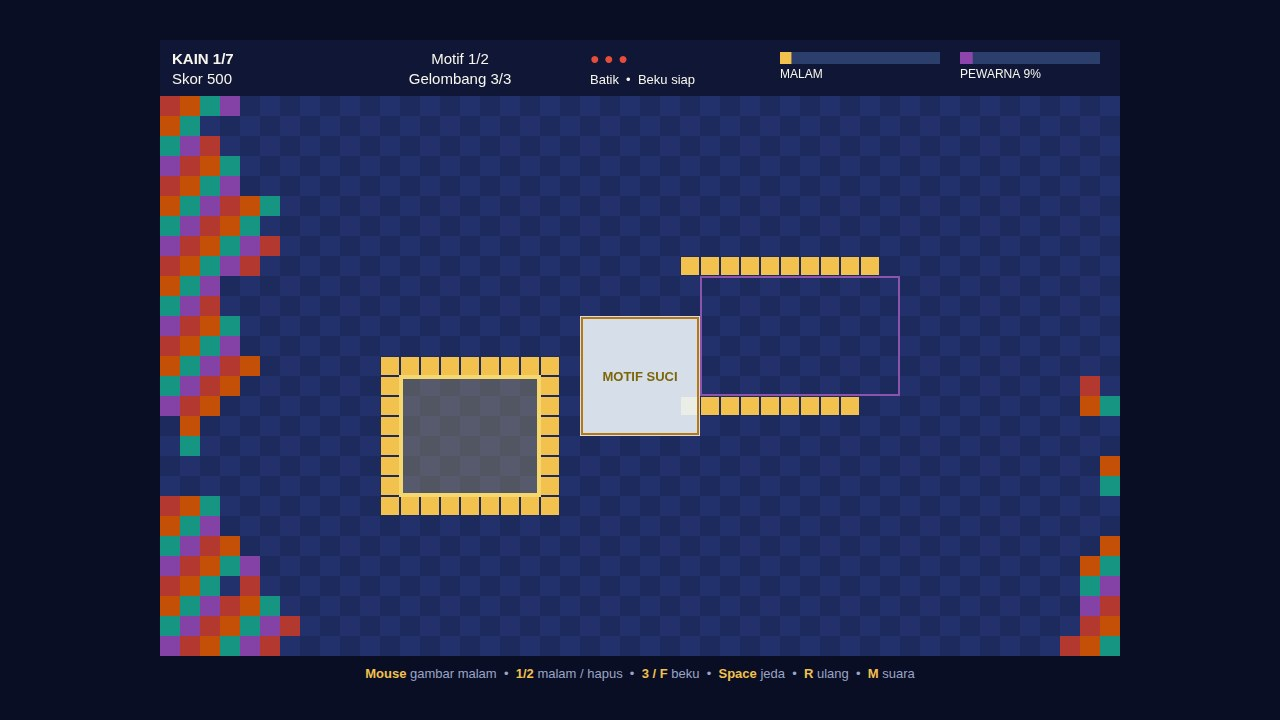
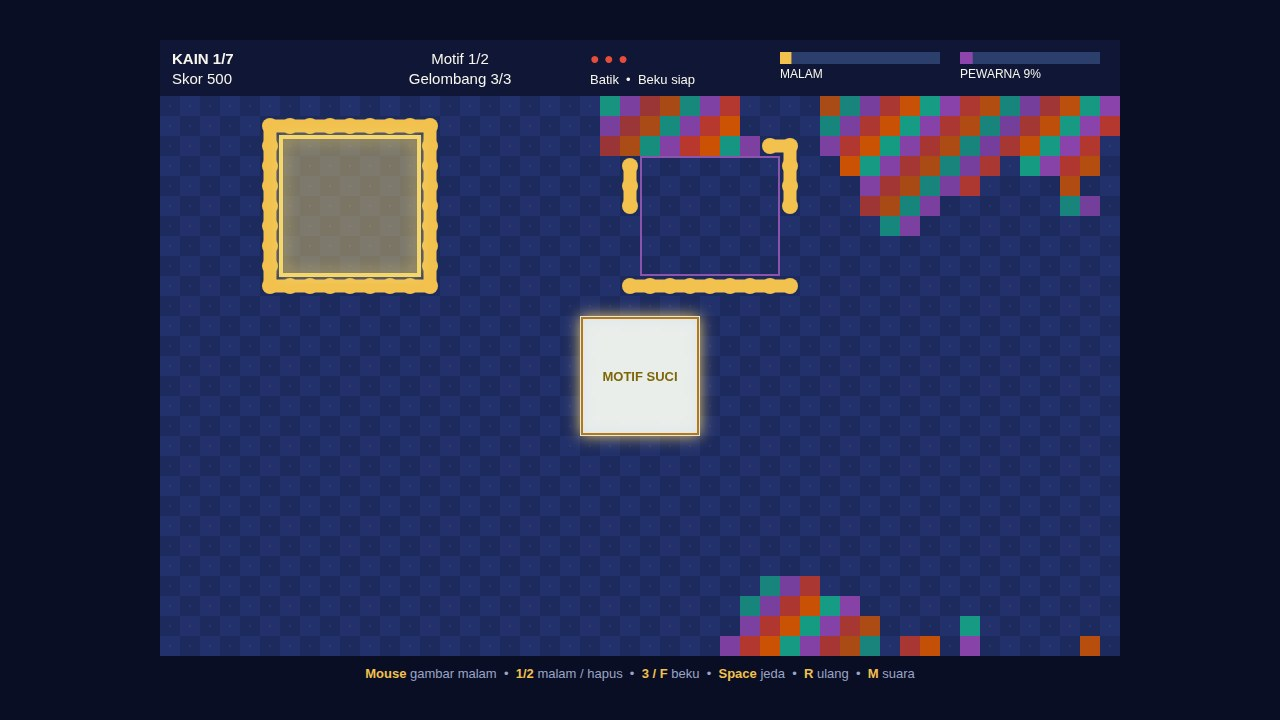
Polish: smooth wax strokes, motif glow, batik texture, living title, gamelan ambient, win screenshot; fix upgrades wiped by cloth reset and unused waxMul

diff --git a/game/src/shots.js b/game/src/shots.js
@@ -4,8 +4,10 @@
 // The frame is what a short game really looks like, and the same seed always
 // gives the same frame — so main.ts writes identical screenshots on every run.
 
-import { CELL, GRID } from './config.js';
-import { SCREEN_OVER, SCREEN_PLAY, SCREEN_TITLE } from './game.js';
+import { CELL, GRID, SCORE } from './config.js';
+import { EVENT_CLEAR } from './cloth.js';
+import { SCREEN_OVER, SCREEN_PLAY, SCREEN_TITLE, SCREEN_WIN } from './game.js';
+import { SACRED } from './motifs.js';
 
 const STEP = 1 / 60;
 const TITLE_SECONDS = 2;
@@ -13,18 +15,19 @@ const PLAY_SECONDS = 18;
 const BOSS_SECONDS = 22;
 const END_SECONDS = 240;
 
-// Paint a few wax cells on the ring just outside a motif's box.
-function ringMotif(game, motif, budget) {
-  const cloth = game.cloth;
+// Paint a few wax cells on the ring just outside a box (a motif or the
+// sacred centre). Wax may cover dye at double cost, so a ring can always
+// be closed.
+function ringBox(cloth, box, budget) {
   let painted = 0;
   const ring = [];
-  for (let x = motif.x - 1; x <= motif.x + motif.w; x += 1) {
-    ring.push({ x, y: motif.y - 1 });
-    ring.push({ x, y: motif.y + motif.h });
+  for (let x = box.x - 1; x <= box.x + box.w; x += 1) {
+    ring.push({ x, y: box.y - 1 });
+    ring.push({ x, y: box.y + box.h });
   }
-  for (let y = motif.y; y < motif.y + motif.h; y += 1) {
-    ring.push({ x: motif.x - 1, y });
-    ring.push({ x: motif.x + motif.w, y });
+  for (let y = box.y; y < box.y + box.h; y += 1) {
+    ring.push({ x: box.x - 1, y });
+    ring.push({ x: box.x + box.w, y });
   }
   for (let i = 0; i < ring.length && painted < budget; i += 1) {
     const cell = ring[i];
@@ -36,6 +39,48 @@ function ringMotif(game, motif, budget) {
   return painted;
 }
 
+function ringMotif(game, motif, budget) {
+  return ringBox(game.cloth, motif, budget);
+}
+
+// True when every in-bounds cell of the ring around a box is wax.
+function ringComplete(cloth, box) {
+  for (let x = box.x - 1; x <= box.x + box.w; x += 1) {
+    for (const y of [box.y - 1, box.y + box.h]) {
+      if (x < 0 || y < 0 || x >= GRID.cols || y >= GRID.rows) continue;
+      if (cloth.grid[y * GRID.cols + x] !== CELL.WAX) return false;
+    }
+  }
+  for (let y = box.y; y < box.y + box.h; y += 1) {
+    for (const x of [box.x - 1, box.x + box.w]) {
+      if (x < 0 || y < 0 || x >= GRID.cols || y >= GRID.rows) continue;
+      if (cloth.grid[y * GRID.cols + x] !== CELL.WAX) return false;
+    }
+  }
+  return true;
+}
+
+// True when the ring around a box can still be closed: every ring cell is
+// wax or plain cloth, never dye. Once dye stains the line, a player would
+// draw further out instead of getting stuck.
+function ringPossible(cloth, box) {
+  for (let x = box.x - 1; x <= box.x + box.w; x += 1) {
+    for (const y of [box.y - 1, box.y + box.h]) {
+      if (x < 0 || y < 0 || x >= GRID.cols || y >= GRID.rows) continue;
+      const cell = cloth.grid[y * GRID.cols + x];
+      if (cell !== CELL.WAX && cell !== CELL.CLOTH) return false;
+    }
+  }
+  for (let y = box.y; y < box.y + box.h; y += 1) {
+    for (const x of [box.x - 1, box.x + box.w]) {
+      if (x < 0 || y < 0 || x >= GRID.cols || y >= GRID.rows) continue;
+      const cell = cloth.grid[y * GRID.cols + x];
+      if (cell !== CELL.WAX && cell !== CELL.CLOTH) return false;
+    }
+  }
+  return true;
+}
+
 // The autopilot: each tick, ring the first unsealed motif with wax.
 function autopilot(game) {
   const motif = game.cloth.motifs.find((m) => !m.sealed);
@@ -43,11 +88,24 @@ function autopilot(game) {
   ringMotif(game, motif, 2);
 }
 
+// The win pilot: ring the sacred centre first, then the motifs, and freeze
+// when the flood gets bad — the way a careful player plays.
+function winPilot(game) {
+  const cloth = game.cloth;
+  if (!ringComplete(cloth, SACRED) && ringPossible(cloth, SACRED)) {
+    ringBox(cloth, SACRED, 4);
+  } else {
+    const motif = cloth.motifs.find((m) => !m.sealed);
+    if (motif) ringMotif(game, motif, 4);
+  }
+  if (cloth.dyeFraction() > 0.35) cloth.freeze();
+}
+
 // Step the cloth forward in big chunks (dt up to 0.25s) to stage a scene fast.
-function fastForward(game, seconds) {
+function fastForward(game, seconds, pilot) {
   const steps = Math.ceil(seconds / 0.25);
   for (let i = 0; i < steps; i += 1) {
-    autopilot(game);
+    (pilot || autopilot)(game);
     game.cloth.step(0.25);
     if (game.cloth.over) break;
   }
@@ -75,6 +133,36 @@ export function stageShot(name, game, seed) {
     game.banner = '';
     game.bannerTime = 0;
     return { screen: SCREEN_PLAY };
+  }
+  if (name === 'win') {
+    // Play a whole run to victory with the win pilot, taking the regen
+    // upgrade between cloths, so the frame shows the win screen with a
+    // real final score behind it.
+    game.startRun('batik');
+    game.seed = seed;
+    game.cloth.reset(0, game.difficulty, seed, 3, 0);
+    for (let cloth = 0; cloth < 7; cloth += 1) {
+      let cleared = false;
+      for (let i = 0; i < 480 && !game.cloth.over; i += 1) {
+        winPilot(game);
+        game.cloth.step(0.25);
+        if (game.cloth.events.some((e) => e.type === EVENT_CLEAR)) {
+          cleared = true;
+          break;
+        }
+      }
+      if (!cleared) break;
+      game.cloth.score += SCORE.clothClear;
+      if (cloth === 6) {
+        game.finishWin();
+      } else {
+        game.cloth.waxRegen *= 1.4;
+        game.nextCloth();
+      }
+    }
+    game.banner = '';
+    game.bannerTime = 0;
+    return { screen: SCREEN_WIN };
   }
   if (name === 'end') {
     game.startRun('mahir');

diff --git a/game/src/render.js b/game/src/render.js
@@ -20,32 +20,63 @@ function dyeColor(x, y) {
 
 // Draw the cloth grid: wax, dye, motifs, sacred centre, boss.
 export function drawCloth(ctx, cloth, time) {
+  const waxCells = [];
   for (let y = 0; y < GRID.rows; y += 1) {
     for (let x = 0; x < GRID.cols; x += 1) {
       const px = x * CELL_PX;
       const py = ORIGIN_Y + y * CELL_PX;
       const kind = cloth.grid[y * GRID.cols + x];
       if (kind === CELL.WAX) {
-        ctx.fillStyle = PALETTE.wax;
-        ctx.fillRect(px + 1, py + 1, CELL_PX - 2, CELL_PX - 2);
+        waxCells.push({ x, y });
       } else if (kind === CELL.DYE) {
         ctx.fillStyle = dyeColor(x, y);
-        ctx.globalAlpha = 0.92;
+        ctx.globalAlpha = 0.86 + 0.1 * Math.sin(time * 2 + x * 0.7 + y * 0.9);
         ctx.fillRect(px, py, CELL_PX, CELL_PX);
         ctx.globalAlpha = 1;
       } else {
         ctx.fillStyle = cellColor(x, y);
         ctx.fillRect(px, py, CELL_PX, CELL_PX);
+        // A faint batik dot woven into every plain cell.
+        ctx.fillStyle = 'rgba(255,255,255,0.05)';
+        ctx.fillRect(px + 9, py + 9, 2, 2);
       }
+    }
+  }
+
+  // Wax as smooth strokes: round joins between neighbouring wax cells,
+  // so a drawn line looks like a line, not a row of squares.
+  ctx.strokeStyle = PALETTE.wax;
+  ctx.fillStyle = PALETTE.wax;
+  ctx.lineWidth = 13;
+  ctx.lineCap = 'round';
+  for (let i = 0; i < waxCells.length; i += 1) {
+    const a = waxCells[i];
+    const ax = a.x * CELL_PX + CELL_PX / 2;
+    const ay = ORIGIN_Y + a.y * CELL_PX + CELL_PX / 2;
+    ctx.beginPath();
+    ctx.arc(ax, ay, 8, 0, Math.PI * 2);
+    ctx.fill();
+    for (let d = 0; d < 2; d += 1) {
+      const nx = a.x + (d === 0 ? 1 : 0);
+      const ny = a.y + (d === 0 ? 0 : 1);
+      if (nx >= GRID.cols || ny >= GRID.rows) continue;
+      if (cloth.grid[ny * GRID.cols + nx] !== CELL.WAX) continue;
+      ctx.beginPath();
+      ctx.moveTo(ax, ay);
+      ctx.lineTo(nx * CELL_PX + CELL_PX / 2, ORIGIN_Y + ny * CELL_PX + CELL_PX / 2);
+      ctx.stroke();
     }
   }
 
   // Sacred centre: a pale square the player must protect.
   const pulse = 0.6 + 0.4 * Math.sin(time * 2);
   ctx.fillStyle = PALETTE.sacred;
+  ctx.shadowColor = '#f5d76e';
+  ctx.shadowBlur = 8 + 10 * pulse;
   ctx.globalAlpha = 0.9;
   ctx.fillRect(SACRED.x * CELL_PX, ORIGIN_Y + SACRED.y * CELL_PX, SACRED.w * CELL_PX, SACRED.h * CELL_PX);
   ctx.globalAlpha = 1;
+  ctx.shadowBlur = 0;
   ctx.strokeStyle = '#b9770e';
   ctx.lineWidth = 2;
   ctx.strokeRect(SACRED.x * CELL_PX + 2, ORIGIN_Y + SACRED.y * CELL_PX + 2, SACRED.w * CELL_PX - 4, SACRED.h * CELL_PX - 4);
@@ -54,11 +85,13 @@ export function drawCloth(ctx, cloth, time) {
   ctx.textAlign = 'center';
   ctx.fillText('MOTIF SUCI', (SACRED.x + SACRED.w / 2) * CELL_PX, ORIGIN_Y + (SACRED.y + SACRED.h / 2) * CELL_PX + 5);
 
-  // Motifs: coloured outlines, gold fill once sealed.
+  // Motifs: coloured outlines, gold fill and a glow once sealed.
   for (let i = 0; i < cloth.motifs.length; i += 1) {
     const motif = cloth.motifs[i];
     ctx.strokeStyle = motif.sealed ? PALETTE.sealed : motif.color;
     ctx.lineWidth = motif.sealed ? 4 : 2;
+    ctx.shadowColor = motif.sealed ? PALETTE.sealed : 'transparent';
+    ctx.shadowBlur = motif.sealed ? 14 : 0;
     ctx.globalAlpha = motif.sealed ? 1 : 0.7 + 0.3 * pulse;
     ctx.strokeRect(motif.x * CELL_PX + 1, ORIGIN_Y + motif.y * CELL_PX + 1, motif.w * CELL_PX - 2, motif.h * CELL_PX - 2);
     if (motif.sealed) {
@@ -68,6 +101,7 @@ export function drawCloth(ctx, cloth, time) {
     }
     ctx.globalAlpha = 1;
   }
+  ctx.shadowBlur = 0;
 
   // The boss serpent, when the cloth has one.
   if (cloth.naga && cloth.naga.alive) {

diff --git a/game/src/audio.js b/game/src/audio.js
@@ -11,6 +11,8 @@ export class Sound {
     this.sfx = null;
     this.muted = false;
     this.playing = new Map();
+    this.ambientTimer = null;
+    this.ambientStep = 0;
   }
 
   // Create the context on first gesture. Safe to call repeatedly.
@@ -28,6 +30,7 @@ export class Sound {
     this.sfx = this.ctx.createGain();
     this.sfx.gain.value = 0.9;
     this.sfx.connect(this.master);
+    this.startAmbient();
   }
 
   toggleMute() {
@@ -81,6 +84,38 @@ export class Sound {
     gain.connect(this.sfx);
     src.onended = () => this.playing.set('splash', (this.playing.get('splash') || 1) - 1);
     src.start(now);
+  }
+
+  // A soft plucked note for the ambient loop.
+  note(freq, seconds, volume) {
+    if (!this.ctx || this.muted) return;
+    const now = this.ctx.currentTime;
+    const osc = this.ctx.createOscillator();
+    const gain = this.ctx.createGain();
+    osc.type = 'sine';
+    osc.frequency.setValueAtTime(freq, now);
+    gain.gain.setValueAtTime(volume, now);
+    gain.gain.exponentialRampToValueAtTime(0.001, now + seconds);
+    osc.connect(gain);
+    gain.connect(this.sfx);
+    osc.start(now);
+    osc.stop(now + seconds + 0.02);
+  }
+
+  // A gamelan-like pentatonic loop: a 16-step pattern, one soft note every
+  // other step, a low gong every two rounds. Starts on the first gesture
+  // and stays quiet under the sound effects.
+  startAmbient() {
+    if (this.ambientTimer || !this.ctx) return;
+    const scale = [261.63, 293.66, 329.63, 392.0, 440.0, 523.25, 659.25];
+    const pattern = [0, 2, 4, 2, 5, 4, 2, 1, 0, 2, 4, 6, 5, 4, 2, 0];
+    this.ambientTimer = setInterval(() => {
+      if (this.muted || !this.ctx) return;
+      const step = this.ambientStep % 16;
+      this.ambientStep += 1;
+      if (step % 2 === 0) this.note(scale[pattern[step]], 1.4, 0.08);
+      if (this.ambientStep % 32 === 0) this.tone('gong', 130, 65, 2.0, 0.12);
+    }, 550);
   }
 
   pluck() {

diff --git a/game/src/game.js b/game/src/game.js
@@ -59,6 +59,7 @@ export class Game {
     this.endless = false;
     this.endlessRound = 0;
     this.demoPainted = false;
+    this.demoTime = 0;
     this.startCloth();
   }
 
@@ -77,10 +78,10 @@ export class Game {
   }
 
   // A fresh cloth for the title backdrop, with a decorative wax ring.
+  // Waves run on a real timer so dye creeps in behind the menu.
   startCloth() {
     this.cloth.reset(0, this.difficulty, this.seed, 3, 0);
-    this.cloth.waveTimer = 9999;
-    this.cloth.spreadTimer = 9999;
+    this.cloth.waveTimer = 2;
     for (let a = 0; a < 40; a += 1) {
       const angle = (a / 40) * Math.PI * 2;
       const cx = 24 + Math.round(Math.cos(angle) * 10);
@@ -98,6 +99,7 @@ export class Game {
     this.endless = false;
     this.endlessRound = 0;
     this.cloth.reset(0, this.difficulty, this.seed, 3, 0);
+    this.cloth.resetUpgrades(this.difficulty);
     this.showBanner('Kain 1 — segel semua motif!');
     this.switchScreen(SCREEN_PLAY);
   }
@@ -208,6 +210,14 @@ export class Game {
     this.particles.update(dt);
 
     if (this.screen === SCREEN_TITLE) {
+      // The backdrop is alive: dye creeps in slowly behind the menu, and
+      // the cloth is rebuilt every half minute so it never floods over.
+      this.demoTime += dt;
+      this.cloth.step(dt * 0.5);
+      if (this.demoTime > 30 || this.cloth.over) {
+        this.demoTime = 0;
+        this.startCloth();
+      }
       const clicked = this.clickButtons();
       if (clicked === 'santai' || clicked === 'batik' || clicked === 'mahir') {
         this.sound.unlock();

diff --git a/game/src/cloth.js b/game/src/cloth.js
@@ -78,10 +78,9 @@ export class Cloth {
       }
     }
     this.naga = spec.boss ? makeNaga() : null;
-    this.waxMax = WAX.max;
+    // Refill wax to the (possibly upgraded) capacity. Upgrades live on the
+    // cloth across levels; only a fresh run clears them (resetUpgrades).
     this.wax = this.waxMax;
-    this.waxRegen = WAX.regenPerSecond;
-    this.brush = 0;
     this.lives = lives;
     this.score = score;
     this.wave = 0;
@@ -95,6 +94,16 @@ export class Cloth {
     this.events = [];
     this.sealedCount = 0;
     this.over = false;
+  }
+
+  // Clear all upgrades (fresh run). Called once per run, never between cloths.
+  // The difficulty's wax factor applies to the base capacity here, once.
+  resetUpgrades(difficulty = DIFFICULTIES.batik) {
+    this.brush = 0;
+    this.waxMax = Math.round(WAX.max * difficulty.waxMul);
+    this.waxRegen = WAX.regenPerSecond;
+    this.freezeExtra = 0;
+    this.wax = this.waxMax;
   }
 
   // Flood fill from the border through every cell that is not wax.
